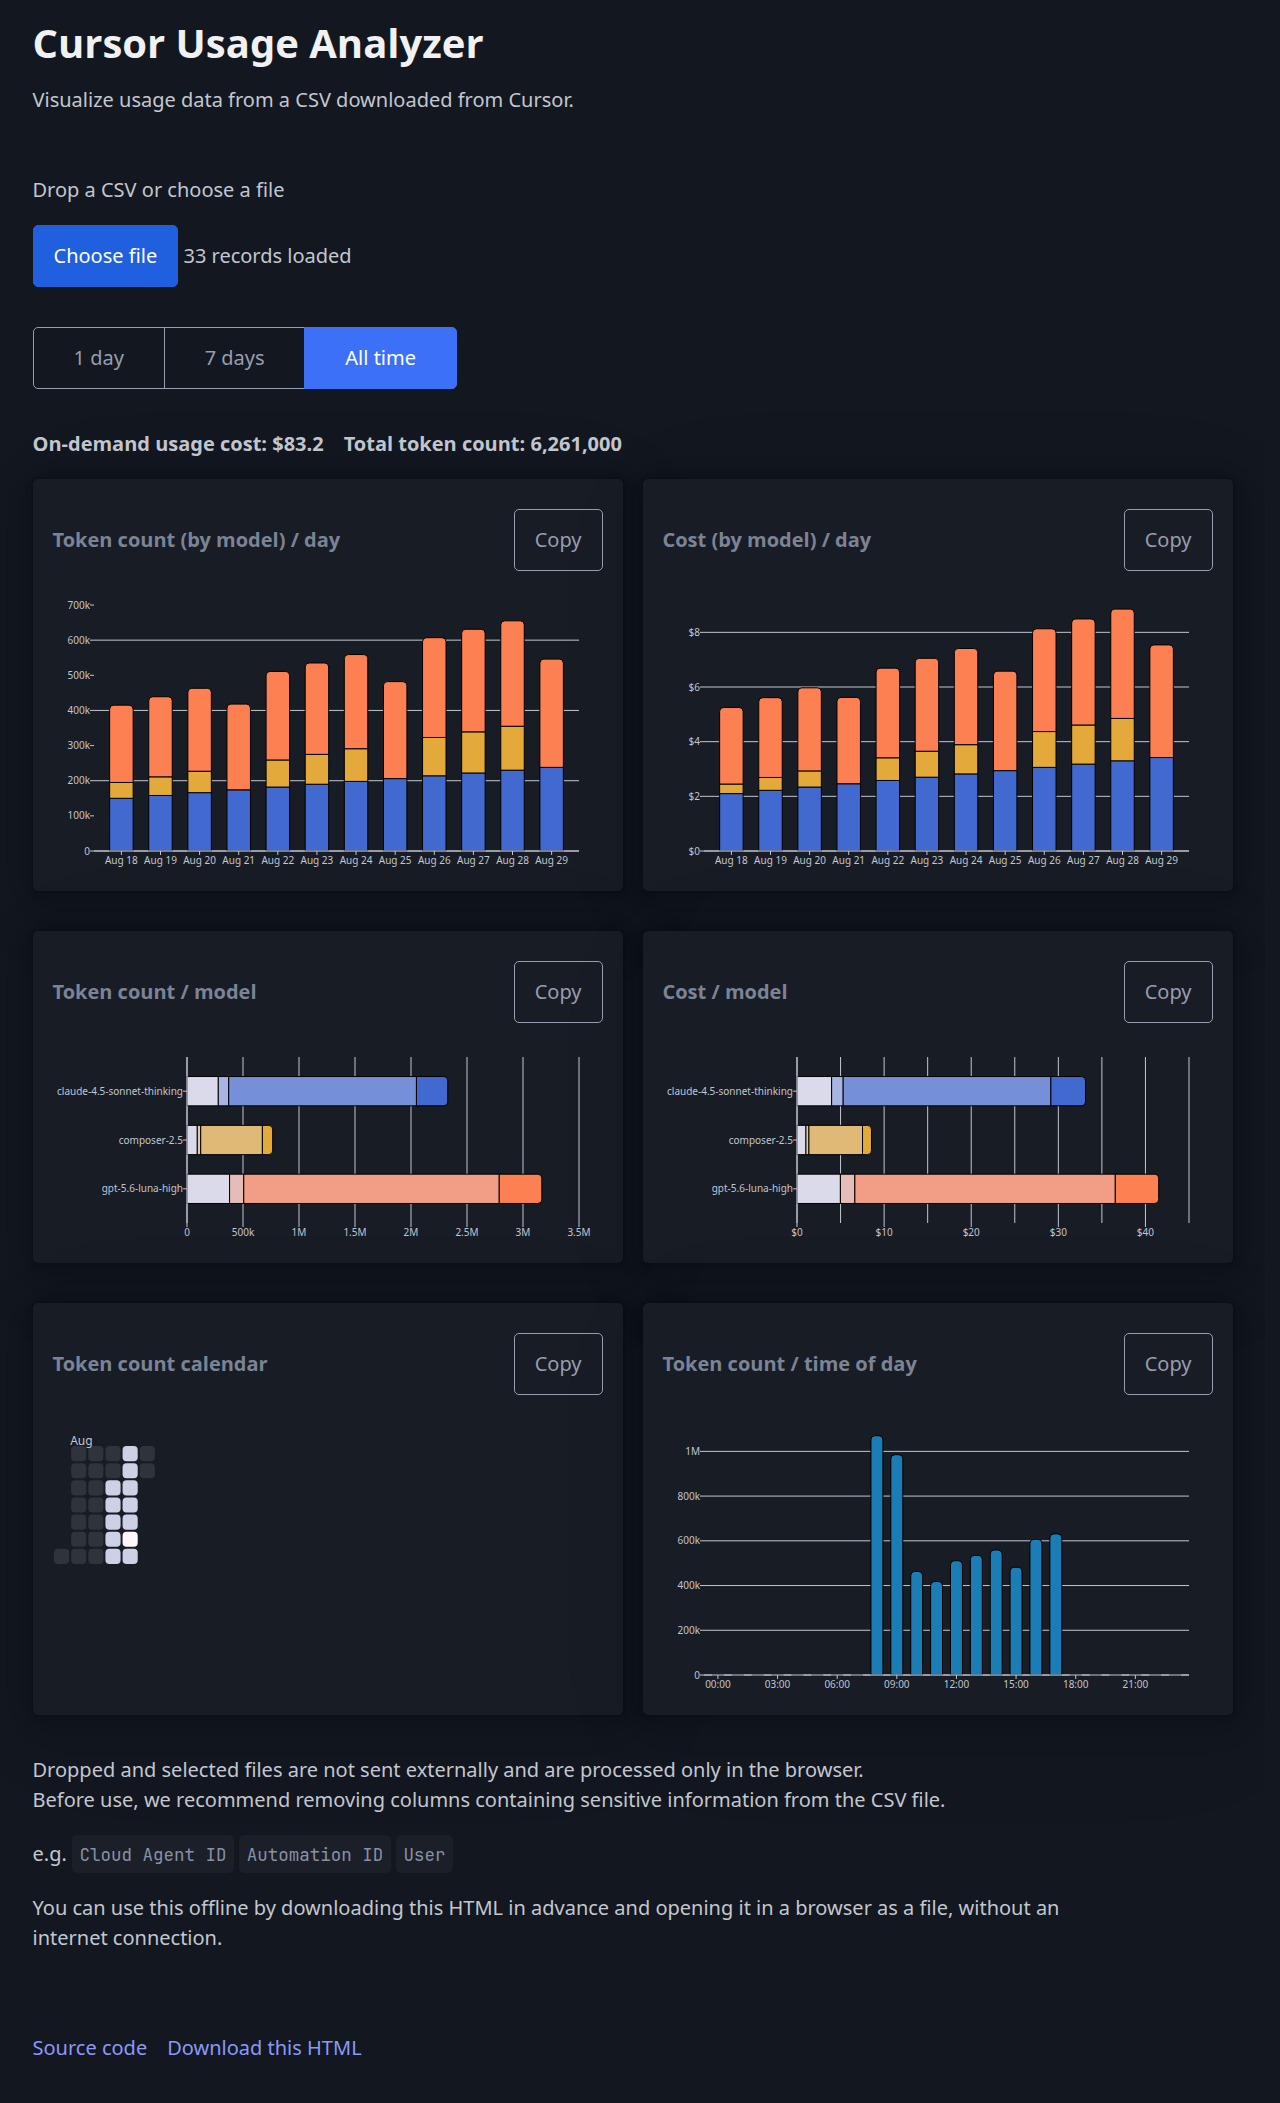
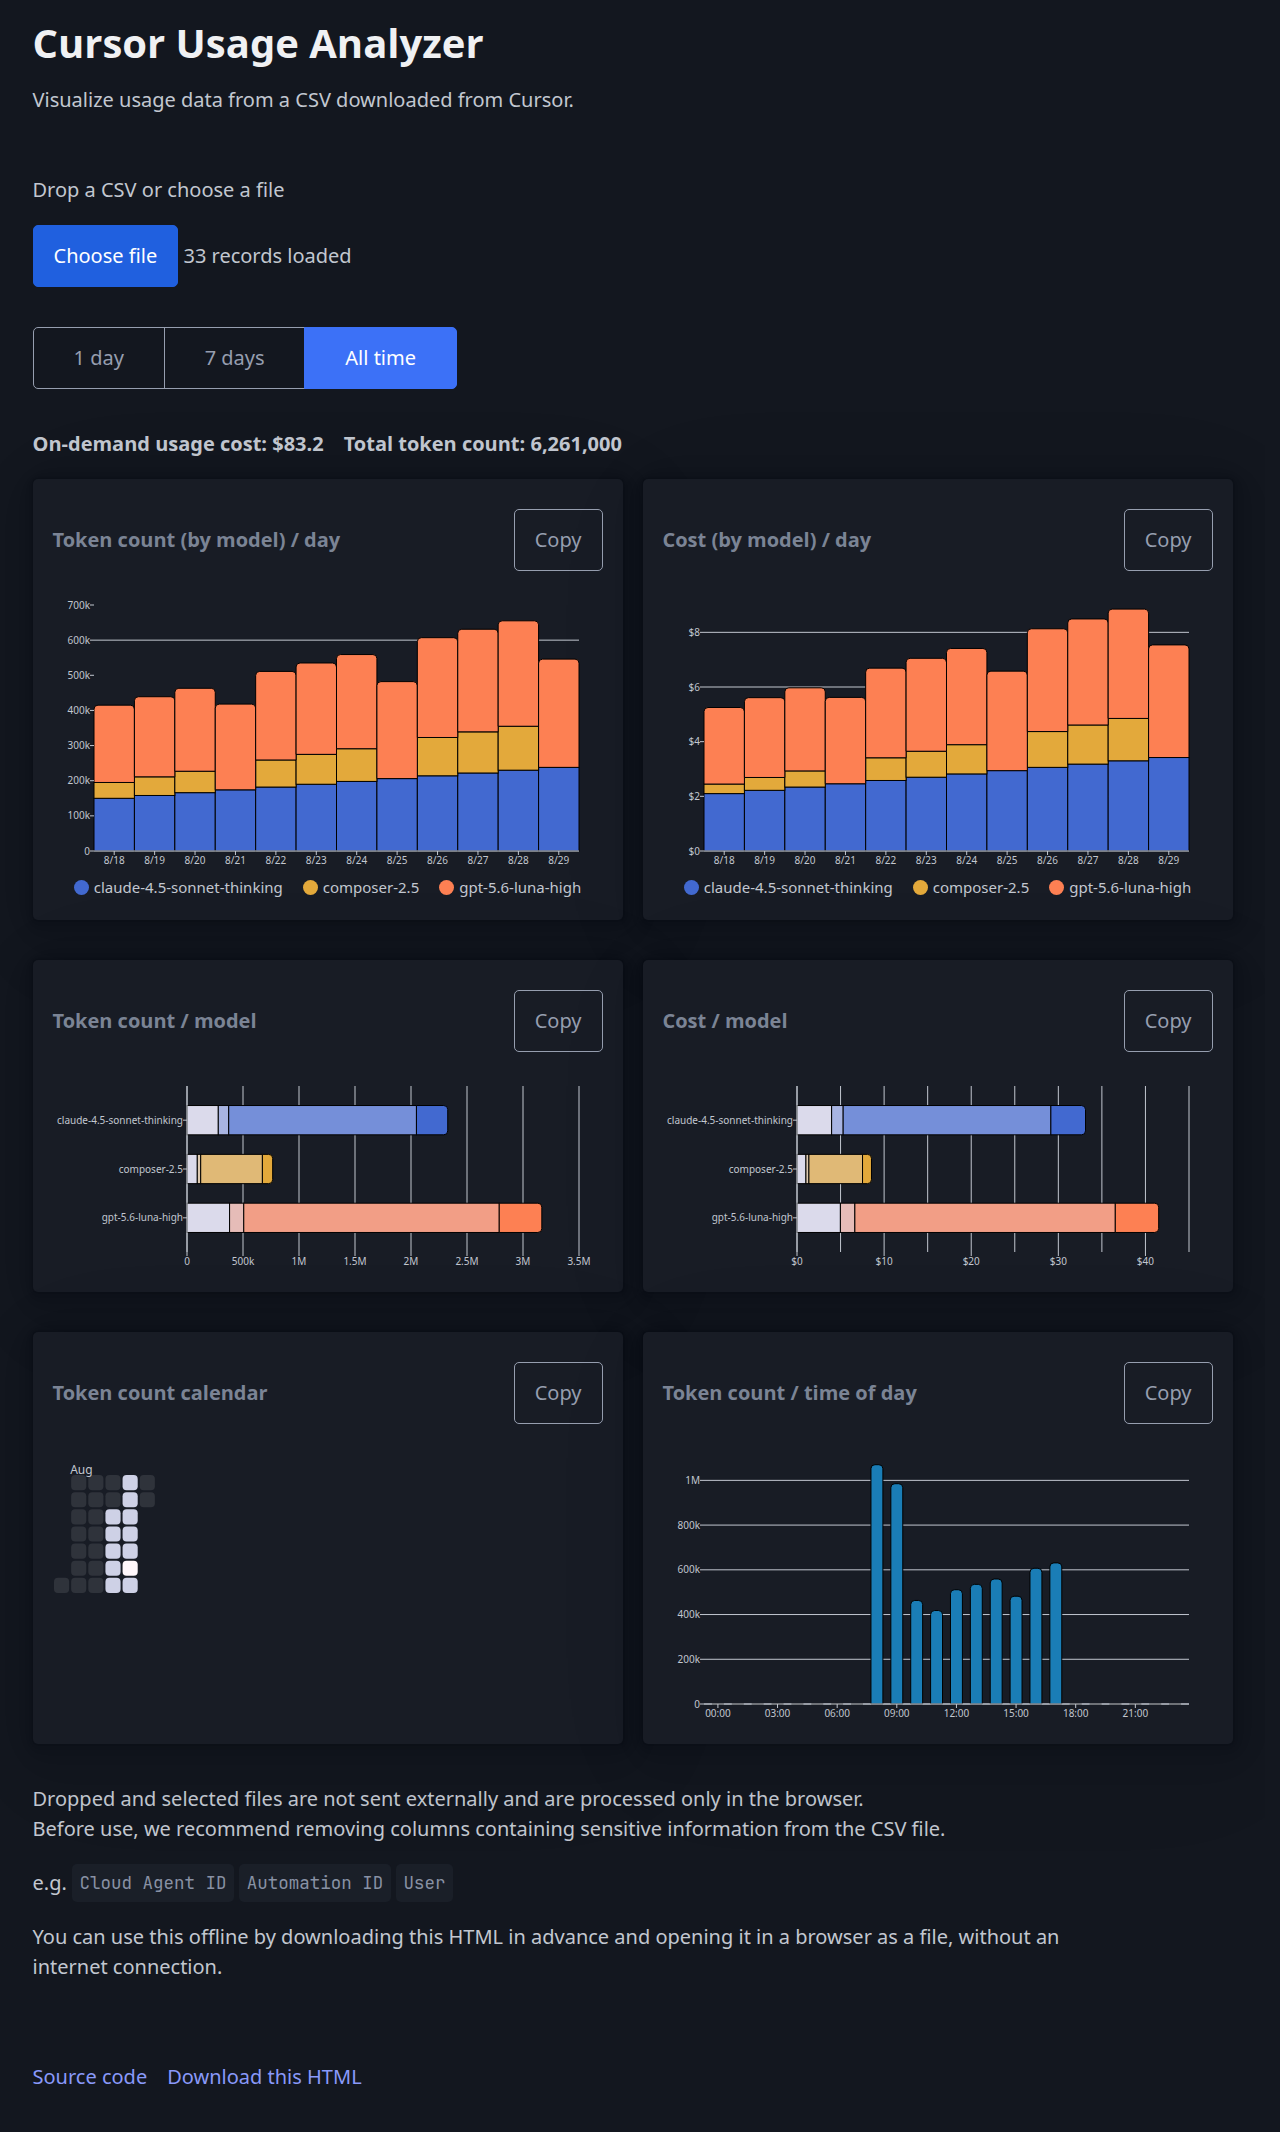
日次グラフの日付軸を1カ月向けの時間スケールにする (#89)

diff --git a/e2e/daily-chart-time-scale.spec.ts b/e2e/daily-chart-time-scale.spec.ts
@@ -1,0 +1,75 @@
+import { expect, test, type Locator } from '@playwright/test';
+import { activeChartCards } from './helpers/chart-locators';
+
+test.use({ viewport: { width: 1280, height: 900 } });
+
+const DAY_COUNT = 30;
+
+function buildMonthCsv() {
+	const header =
+		'Date,Model,Input (w/ Cache Write),Input (w/o Cache Write),Cache Read,Output Tokens,Total Tokens,Cost';
+	const lines = [header];
+
+	for (let day = 0; day < DAY_COUNT; day += 1) {
+		const date = new Date(Date.UTC(2026, 7, 1 + day, 12, 0, 0)).toISOString();
+		const tokens = 1000 + day * 100;
+		lines.push(`${date},alpha,0,0,0,${tokens},${tokens},${(day + 1).toFixed(2)}`);
+	}
+
+	return lines.join('\n');
+}
+
+async function bottomAxisLabels(chart: Locator) {
+	return chart.evaluate((element) => {
+		const labels = [
+			...element.querySelectorAll('.lc-axis.placement-bottom text.lc-axis-tick-label')
+		];
+
+		return labels.map((label) => {
+			const box = label.getBoundingClientRect();
+			return { text: label.textContent?.trim() ?? '', left: box.left, right: box.right };
+		});
+	});
+}
+
+test('daily charts use a month-sized time scale with spaced date ticks', async ({ page }) => {
+	await page.goto('/cursor_usage_analyzer/en/');
+	await page.waitForLoadState('networkidle');
+	await page.locator('input[type="file"]').setInputFiles({
+		name: 'usage.csv',
+		mimeType: 'text/csv',
+		buffer: Buffer.from(buildMonthCsv())
+	});
+
+	await expect(page.getByText(/records loaded/)).toBeVisible();
+	const tokensChart = page.getByRole('img', {
+		name: `Daily token count by model. 1 models, ${DAY_COUNT} days.`
+	});
+	const costChart = page.getByRole('img', {
+		name: `Daily cost by model. 1 models, ${DAY_COUNT} days.`
+	});
+	await expect(tokensChart).toBeVisible();
+	await expect(costChart).toBeVisible();
+	await expect(tokensChart.locator('.lc-bar, .lc-bars')).not.toHaveCount(0);
+
+	for (const chart of [tokensChart, costChart]) {
+		const ticks = await bottomAxisLabels(chart);
+		expect(ticks.length).toBeGreaterThan(1);
+		expect(ticks.length).toBeLessThan(DAY_COUNT);
+
+		for (let index = 1; index < ticks.length; index += 1) {
+			expect(ticks[index].left).toBeGreaterThan(ticks[index - 1].right);
+		}
+	}
+
+	await tokensChart.locator('.lc-tooltip-rect').first().hover();
+	const tooltip = page.locator('.lc-tooltip-root:not([inert])');
+	await expect(tooltip).toBeVisible();
+	await expect(tooltip.locator('.lc-tooltip-header')).toHaveText('Aug 1');
+
+	const cards = activeChartCards(page);
+	await expect(cards.nth(0).locator('figcaption strong')).toHaveText(
+		'Token count (by model) / day'
+	);
+	await expect(cards.nth(1).locator('figcaption strong')).toHaveText('Cost (by model) / day');
+});

diff --git a/src/lib/feature/top/graph/chart-utils.spec.ts b/src/lib/feature/top/graph/chart-utils.spec.ts
@@ -1,3 +1,4 @@
+import { timeDay } from 'd3-time';
 import { describe, expect, it } from 'vitest';
 import { csvPoint, modelBreakdown } from '$lib/csv-point.fixture';
 import {
@@ -7,6 +8,11 @@ import {
 	buildTokenCalendar,
 	buildTokenCalendarThresholds,
 	filterPointsByDays,
+	dailyAxisInterval,
+	dailyAxisTickFormat,
+	dailyAxisTickSpacing,
+	dailyChartPoints,
+	dateFromUtcDay,
 	formatChartAxis,
 	formatChartValue,
 	formatCostAxis,
@@ -101,6 +107,27 @@ describe('formatDay', () => {
 		expect(formatDay('2026-08-28')).toBe('Aug 28');
 		expect(formatDay('2026-01-02')).toBe('Jan 2');
 		expect(formatDay('not-a-day')).toBe('not-a-day');
+	});
+});
+
+describe('dailyChartPoints', () => {
+	it('adds a local-midnight date for each UTC calendar day', () => {
+		const points = dailyChartPoints([
+			{ day: '2026-08-01', cost: 1, tokens: 10, models: [] },
+			{ day: '2026-08-28', cost: 2, tokens: 20, models: [] }
+		]);
+
+		expect(points.map((point) => point.day)).toEqual(['2026-08-01', '2026-08-28']);
+		expect(points[0].date).toEqual(dateFromUtcDay('2026-08-01'));
+		expect(points[1].date).toEqual(dateFromUtcDay('2026-08-28'));
+	});
+});
+
+describe('dailyAxisTicks', () => {
+	it('uses a one-day interval and spaced short day ticks', () => {
+		expect(dailyAxisInterval).toBe(timeDay);
+		expect(dailyAxisTickFormat).toEqual({ type: 'day', options: { variant: 'short' } });
+		expect(dailyAxisTickSpacing).toBe(30);
 	});
 });
 

diff --git a/src/lib/feature/top/graph/chart-format.ts b/src/lib/feature/top/graph/chart-format.ts
@@ -1,4 +1,6 @@
-import type { ChartMetric } from './chart-types';
+import { timeDay } from 'd3-time';
+import type { ChartMetric, DailyValue } from './chart-types';
+import { dateFromUtcDay } from './chart-utc';
 
 export const verticalChartPadding = { top: 4, right: 24, bottom: 20, left: 41 } as const;
 export const verticalChartHeight = 270;
@@ -74,6 +76,21 @@ const dayLabelFormat = new Intl.DateTimeFormat('en-US', {
 export function formatDay(value: string) {
 	const date = new Date(`${value}T00:00:00Z`);
 	return Number.isNaN(date.getTime()) ? value : dayLabelFormat.format(date);
+}
+
+/**
+ * Daily bar charts use a local time scale. LayerChart places each bar in a
+ * `timeDay` interval so the axis follows the data's own date range.
+ */
+export const dailyAxisInterval = timeDay;
+export const dailyAxisTickFormat = { type: 'day', options: { variant: 'short' } } as const;
+/** Pixel gap between date-axis ticks on the daily charts. */
+export const dailyAxisTickSpacing = 30;
+
+export type DailyChartPoint = DailyValue & { date: Date };
+
+export function dailyChartPoints(days: DailyValue[]): DailyChartPoint[] {
+	return days.map((day) => ({ ...day, date: dateFromUtcDay(day.day) }));
 }
 
 export function formatHour(value: number) {

diff --git a/src/lib/feature/top/graph/DailyModelChart.svelte b/src/lib/feature/top/graph/DailyModelChart.svelte
@@ -3,6 +3,10 @@
 	import { BarChart, Tooltip } from 'layerchart/svg';
 	import {
 		buildDailyModelSeries,
+		dailyAxisInterval,
+		dailyAxisTickFormat,
+		dailyAxisTickSpacing,
+		dailyChartPoints,
 		formatChartAxis,
 		formatChartValue,
 		formatDay,
@@ -30,6 +34,7 @@
 	let legendItems = $derived(
 		series.map((item) => ({ key: item.key, label: item.label, color: item.color }))
 	);
+	let chartDays = $derived(dailyChartPoints(days));
 	let title = $derived(
 		metric === 'tokens' ? m.tokens_per_day_heading() : m.models_per_day_heading()
 	);
@@ -48,14 +53,18 @@
 
 <ChartCard {title} {ariaLabel}>
 	<BarChart
-		data={days}
-		x="day"
+		data={chartDays}
+		x="date"
+		xInterval={dailyAxisInterval}
 		{series}
 		seriesLayout="stack"
 		padding={verticalChartPadding}
 		height={verticalChartHeight}
 		props={{
-			xAxis: { format: formatDay },
+			xAxis: {
+				format: dailyAxisTickFormat,
+				tickSpacing: dailyAxisTickSpacing
+			},
 			yAxis: { format: (value) => formatChartAxis(value, metric) }
 		}}
 	>

diff --git a/src/lib/feature/top/graph/chart-utils.ts b/src/lib/feature/top/graph/chart-utils.ts
@@ -32,6 +32,10 @@ export {
 export {
 	compactNumberFormat,
 	currencyFormat,
+	dailyAxisInterval,
+	dailyAxisTickFormat,
+	dailyAxisTickSpacing,
+	dailyChartPoints,
 	formatChartAxis,
 	formatChartValue,
 	formatCostAxis,
@@ -42,6 +46,7 @@ export {
 	verticalChartHeight,
 	verticalChartPadding
 } from './chart-format';
+export type { DailyChartPoint } from './chart-format';
 
 export {
 	chartTooltipRootProps,
